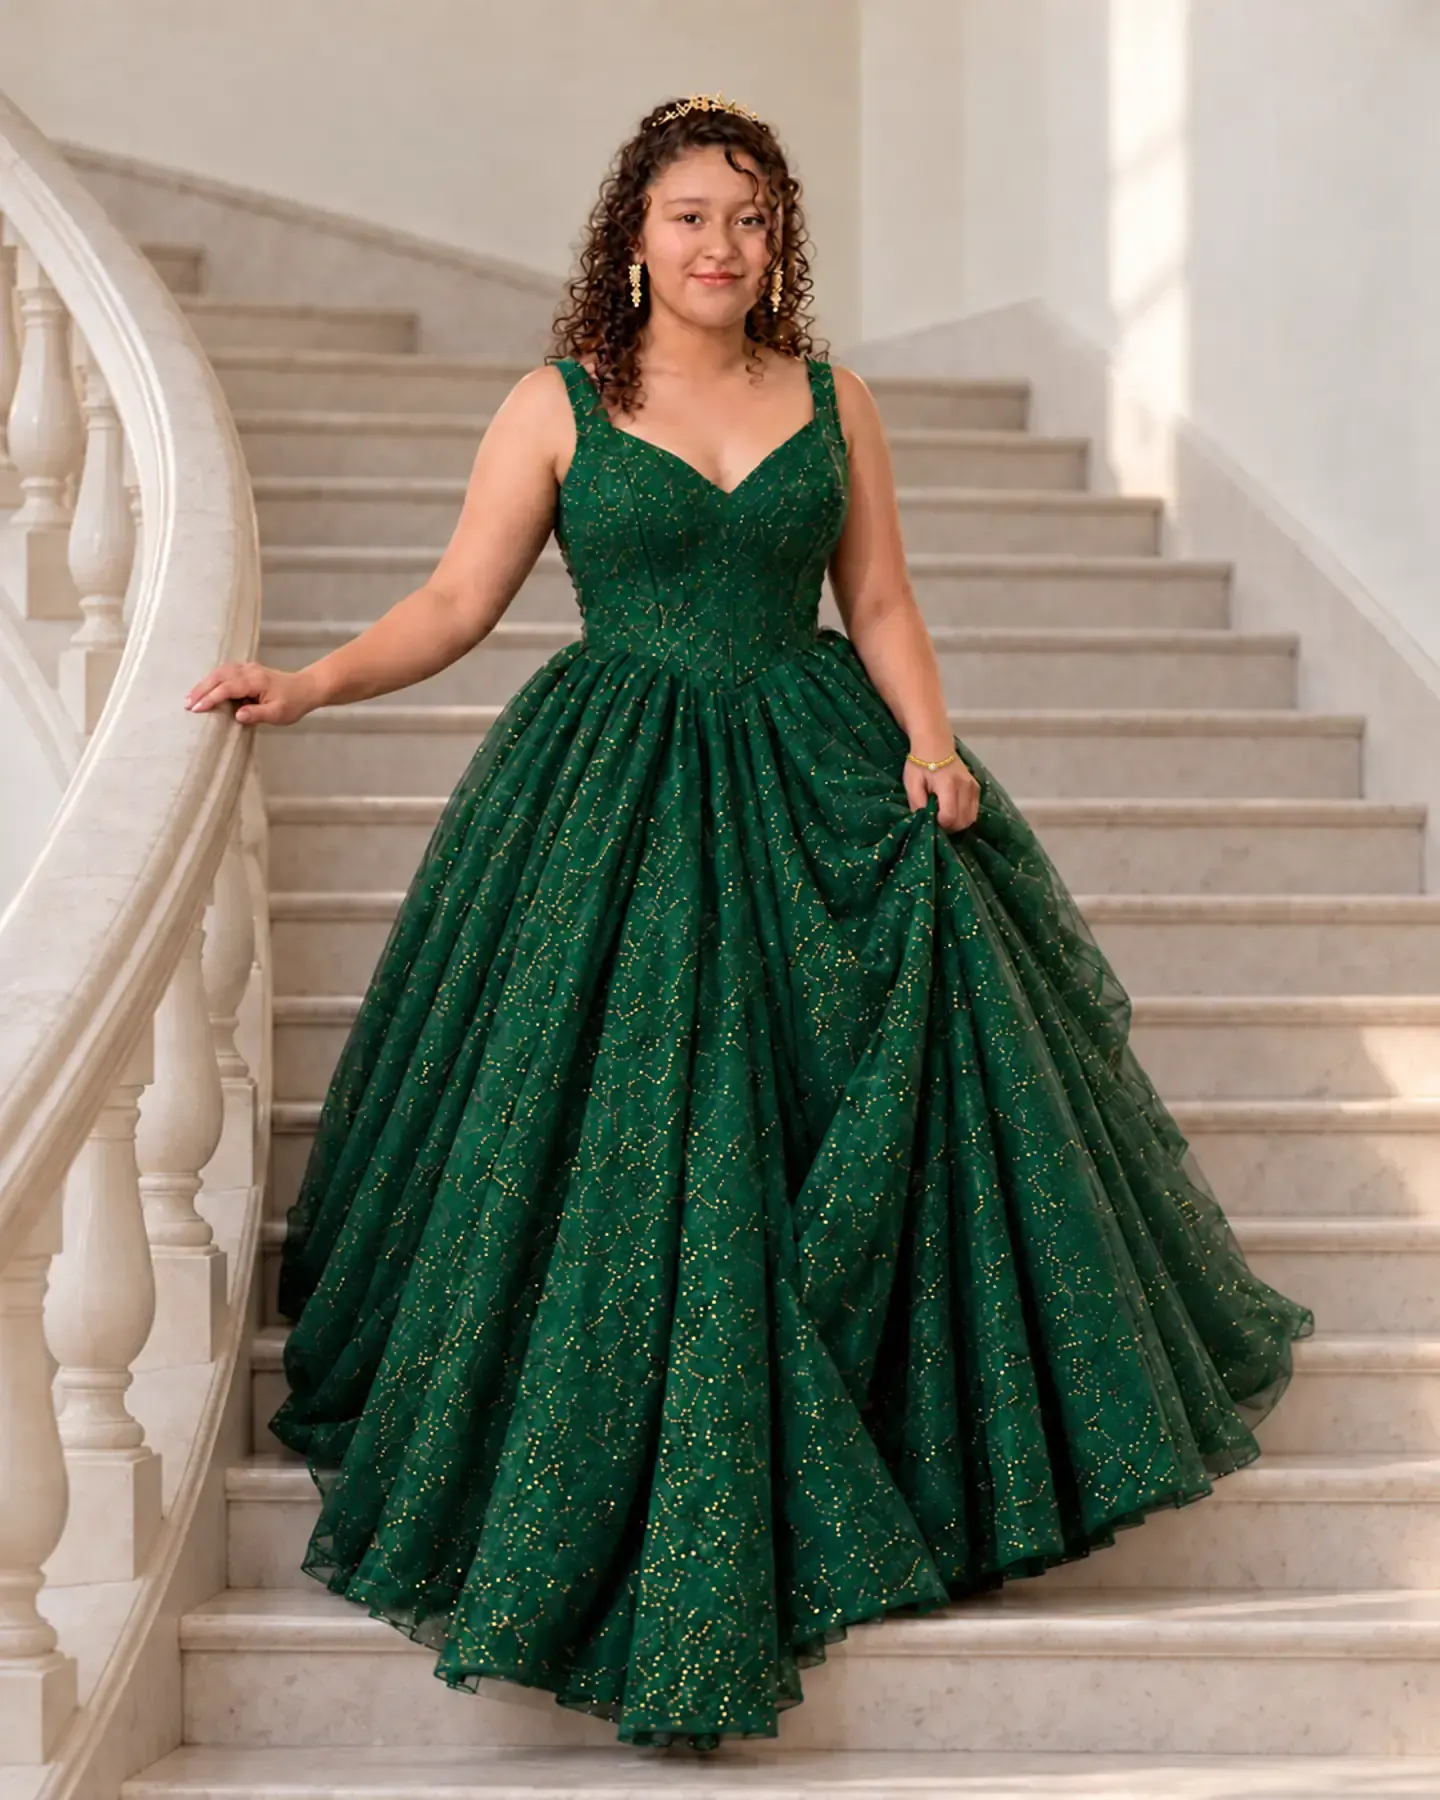
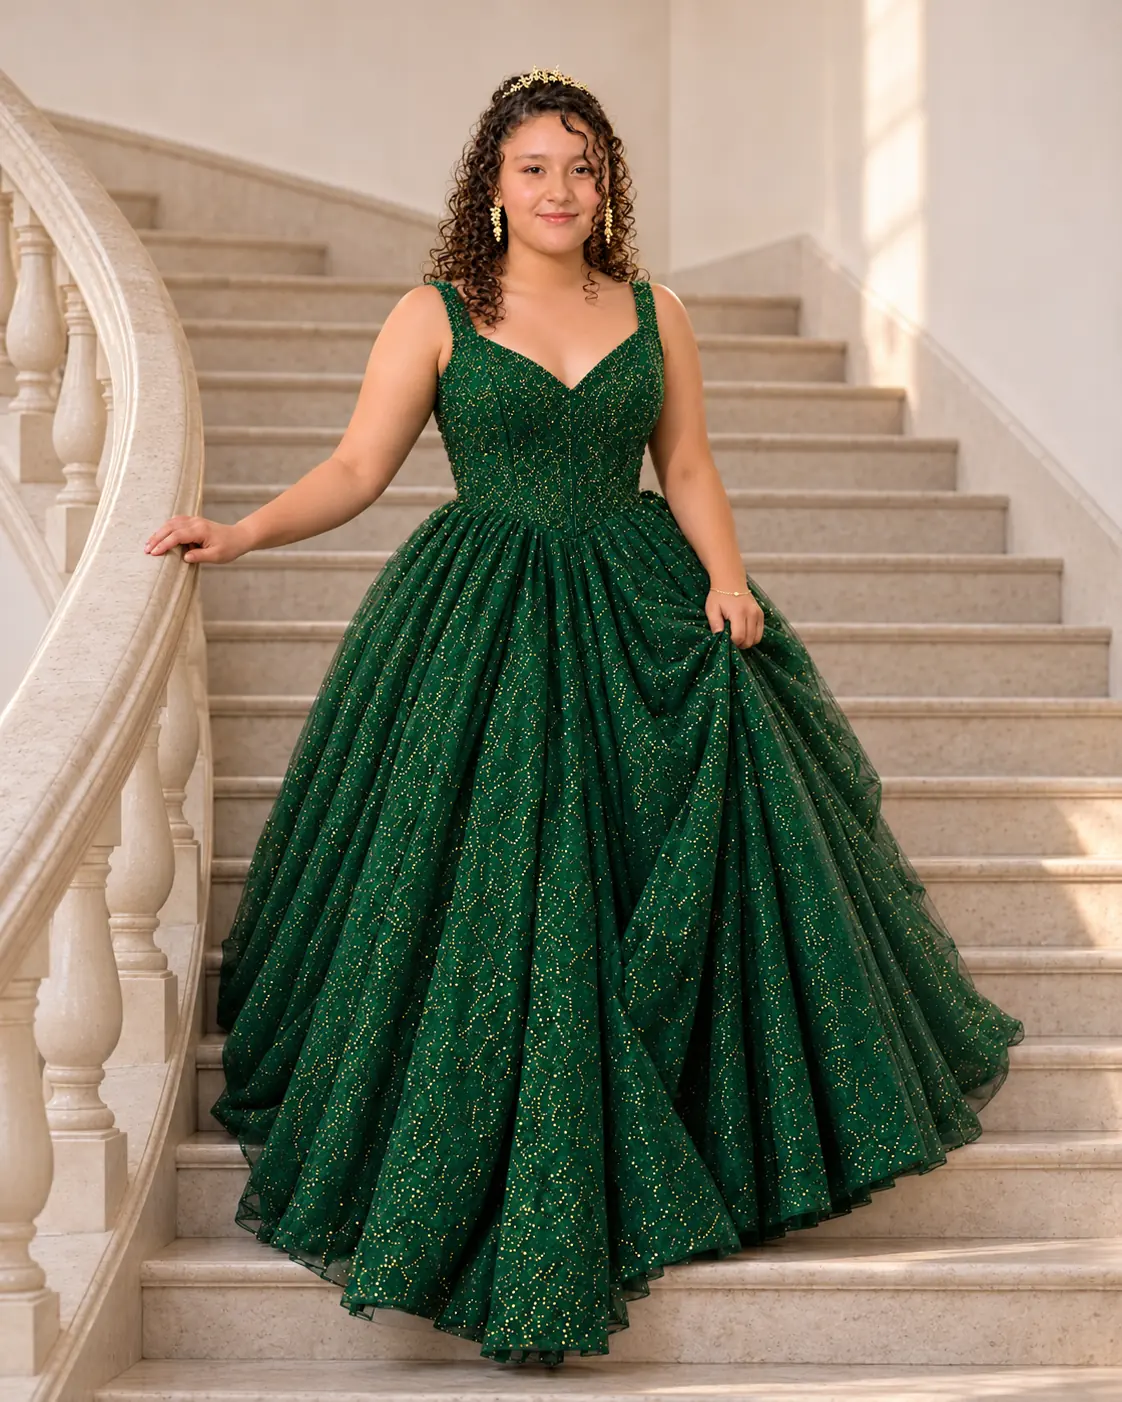
fix(images): refresh Andrea invitation photos from round three
Replace Andrea's ten invitation photos with the owner-selected third-round sources.
Keep each role distinct, center the hero, and document delivery dimensions.

diff --git a/src/invitations/clients/andrea/invitation.ts b/src/invitations/clients/andrea/invitation.ts
@@ -8,7 +8,7 @@ import type { CanonicalEventContentInput } from '../../../lib/schemas/content/ba
  * the garden plate, the sealed-letter print hangs out of it, and the closing rises into the reply
  * card under an arch. Fine gold butterflies are the only motif. The cover frames the portrait in
  * an arch over the name. The photographs come from an AI session edited from the client's
- * snapshots, upscaled 2× with a resampling filter that invents no detail. The song is
+ * snapshots, delivered without enlargement from the owner's third photo round. The song is
  * omitted until its file is hosted on the media domain. The program, gifts, reply deadline and
  * every guest-facing line are drafts for the client's approval. The family section is «Mi
  * familia» (never «Mis padres») and has no godparents. Adults only, with personalized passes.
@@ -79,8 +79,8 @@ const content: CanonicalEventContentInput = {
 		// Hero formats its display date in UTC; eventTiming owns the real instant.
 		date: '2027-07-03T12:00:00.000Z',
 		backgroundImage: 'hero',
-		focalPoint: '62% 30%',
-		focalPointMobile: '62% 30%',
+		focalPoint: '50% 30%',
+		focalPointMobile: '50% 30%',
 		presentation: { venueIndex: 0 },
 		scrollLabel: 'Deslice para descubrir',
 	},
@@ -314,7 +314,7 @@ export default defineCanonicalInvitation({
 	// Provisional: the celebrant's surname is not in the intake.
 	hostLoginAlias: 'andrea_xv',
 	assetDir: 'src/invitations/clients/andrea/assets',
-	// One role per photograph; the og crop is a separate derivative of the cover source.
+	// One distinct round-three photograph per role, including the landscape social card.
 	assetFiles: {
 		hero: 'hero-arch.webp',
 		family: 'family.webp',

diff --git a/docs/invitations/andrea.md b/docs/invitations/andrea.md
@@ -231,39 +231,42 @@ romantic display), and the client's own emerald gown reference (colour and spark
 
 ## Photograph Inventory
 
-Source label: `source:ai-session` (opaque). The client has no XV photo session until February or
-March 2027, so the owner chose an AI session built from her WhatsApp snapshots (D2). The snapshots
-are references only and never become assets. The AI photographs replace nothing real; they can be
-swapped for the professional session later.
+Source label: `source:andrea-round-3` (opaque). The owner selected ten replacement AI-assisted
+photographs on 2026-11-05 for T645 andrea-fotos-ronda-3. These replace the earlier photo rounds.
+Originals remain outside the repository and are unchanged.
 
-| source filename            | dims      | format | orientation | weight | quality          | role      | duplicate   | processing                                     | derivative                              |
-| -------------------------- | --------- | ------ | ----------- | ------ | ---------------- | --------- | ----------- | ---------------------------------------------- | --------------------------------------- |
-| 01-ficha-rostro.png        | 1122×1402 | PNG    | portrait    | 2.1 MB | production-ready | gallery   | no          | Lanczos 2× + light unsharp; WebP q80           | gallery-01.webp 1441×1800 159 KiB       |
-| 02-ficha-cuerpo-entero.png | 1122×1402 | PNG    | portrait    | 2.2 MB | production-ready | gallery   | no          | Lanczos 2× + light unsharp; WebP q72           | gallery-02.webp 1441×1800 131 KiB       |
-| 03-portada.png             | 941×1672  | PNG    | portrait    | 2.2 MB | production-ready | hero      | no          | Lanczos 2×, arch crop; WebP q84                | hero-arch.webp 1843×2560 290 KiB        |
-| 03-portada.png             | 941×1672  | PNG    | portrait    | 2.2 MB | production-ready | og-share  | intentional | 1200×630 crop of the cover                     | og-share.webp 1200×630 27 KiB           |
-| 04-familia.png             | 1536×1024 | PNG    | landscape   | 2.1 MB | production-ready | family    | no          | Lanczos 2× + light unsharp; WebP               | family.webp 2200×1467 163 KiB           |
-| 05-cierre.png              | 1122×1402 | PNG    | portrait    | 2.1 MB | production-ready | thank-you | no          | Lanczos 2× + light unsharp; WebP q80           | thank-you.webp 1761×2200 211 KiB        |
-| 06-lamina-jardin.png       | 1122×1402 | PNG    | portrait    | 2.4 MB | production-ready | interlude | no          | Crop 4:5, Lanczos 2× + light unsharp; WebP q72 | interlude-garden.webp 1440×1800 168 KiB |
-| 07-lamina-detalle.png      | 1122×1402 | PNG    | portrait    | 2.4 MB | production-ready | interlude | no          | Crop 4:5, Lanczos 2× + light unsharp; WebP q72 | interlude-detail.webp 1440×1800 184 KiB |
-| 08-album-escalera.png      | 1122×1402 | PNG    | portrait    | 2.3 MB | production-ready | gallery   | no          | Crop 4:5, Lanczos 2× + light unsharp; WebP q72 | album-staircase.webp 1440×1800 139 KiB  |
-| 09-album-ventanal.png      | 1122×1402 | PNG    | portrait    | 2.6 MB | production-ready | gallery   | no          | Crop 4:5, Lanczos 2× + light unsharp; WebP q76 | album-window.webp 960×1200 130 KiB      |
+| source     | dimensions | quality          | role      | processing                          | derivative            | delivery             |
+| ---------- | ---------- | ---------------- | --------- | ----------------------------------- | --------------------- | -------------------- |
+| round-3-01 | 1122×1402  | production-ready | gallery   | Native dimensions; WebP q80         | gallery-01.webp       | 1122×1402; 153.3 KiB |
+| round-3-02 | 1122×1402  | production-ready | gallery   | Downsample to role budget; WebP q72 | album-window.webp     | 1024×1280; 167.9 KiB |
+| round-3-03 | 1448×1086  | production-ready | family    | Native dimensions; WebP q84         | family.webp           | 1448×1086; 196.2 KiB |
+| round-3-04 | 1122×1402  | production-ready | gallery   | Native dimensions; WebP q80         | gallery-02.webp       | 1122×1402; 176.8 KiB |
+| round-3-05 | 1122×1402  | production-ready | hero      | Native dimensions; WebP q84         | hero-arch.webp        | 1122×1402; 218.0 KiB |
+| round-3-06 | 1122×1402  | production-ready | interlude | Native dimensions; WebP q84         | interlude-detail.webp | 1122×1402; 261.2 KiB |
+| round-3-07 | 1122×1402  | production-ready | interlude | Native dimensions; WebP q84         | interlude-garden.webp | 1122×1402; 246.5 KiB |
+| round-3-08 | 1672×941   | production-ready | og-share  | Centre crop to 1200×630; WebP q84   | og-share.webp         | 1200×630; 52.6 KiB   |
+| round-3-09 | 1122×1402  | production-ready | thank-you | Native dimensions; WebP q84         | thank-you.webp        | 1122×1402; 198.3 KiB |
+| round-3-10 | 1122×1402  | production-ready | gallery   | Native dimensions; WebP q76         | album-staircase.webp  | 1122×1402; 167.1 KiB |
 
-The upscale is a plain resampling filter (Lanczos 2× with a light unsharp mask); it adds no detail
-and was checked to keep the faces unchanged. Every derivative is inside its role budget. Assets live
-in `src/invitations/clients/andrea/assets/`; the sources and the 2× intermediates stay outside the
-repository.
+No enlargement or generated detail was added. All ten files decode successfully and meet their role
+weight ceilings. Production-ready describes source and encoding quality; browser capture is
+mechanical evidence and does not replace human creative acceptance. The social card uses its own
+landscape source, with the central square reserved for the portrait.
 
 ### Uniqueness table (required before READY_*)
 
-| role      | source         | derivative                                                  | intentional multi-role?    |
-| --------- | -------------- | ----------------------------------------------------------- | -------------------------- |
-| hero      | 03-portada.png | hero-arch.webp                                              | yes — og-share is its crop |
-| og-share  | 03-portada.png | og-share.webp                                               | yes — social card of cover |
-| family    | 04-familia.png | family.webp                                                 | no                         |
-| thank-you | 05-cierre.png  | thank-you.webp                                              | no                         |
-| gallery   | 01, 02, 08, 09 | gallery-01, gallery-02, album-staircase, album-window .webp | no                         |
-| interlude | 06, 07         | interlude-garden.webp, interlude-detail.webp                | no                         |
+| role      | source     | derivative            | intentional multi-role? |
+| --------- | ---------- | --------------------- | ----------------------- |
+| gallery   | round-3-01 | gallery-01.webp       | no                      |
+| gallery   | round-3-02 | album-window.webp     | no                      |
+| family    | round-3-03 | family.webp           | no                      |
+| gallery   | round-3-04 | gallery-02.webp       | no                      |
+| hero      | round-3-05 | hero-arch.webp        | no                      |
+| interlude | round-3-06 | interlude-detail.webp | no                      |
+| interlude | round-3-07 | interlude-garden.webp | no                      |
+| og-share  | round-3-08 | og-share.webp         | no                      |
+| thank-you | round-3-09 | thank-you.webp        | no                      |
+| gallery   | round-3-10 | album-staircase.webp  | no                      |
 
 ---
 
